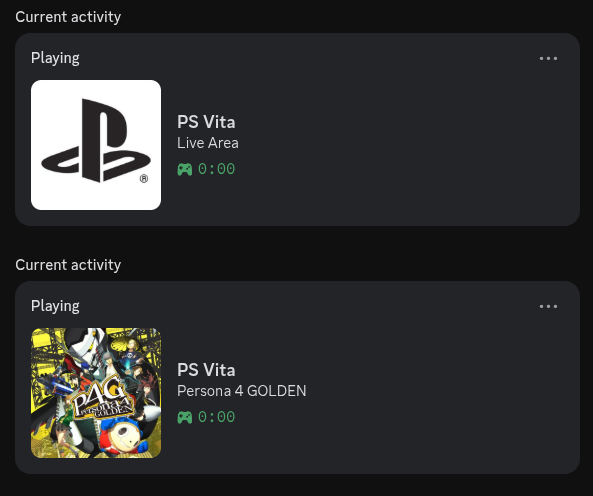
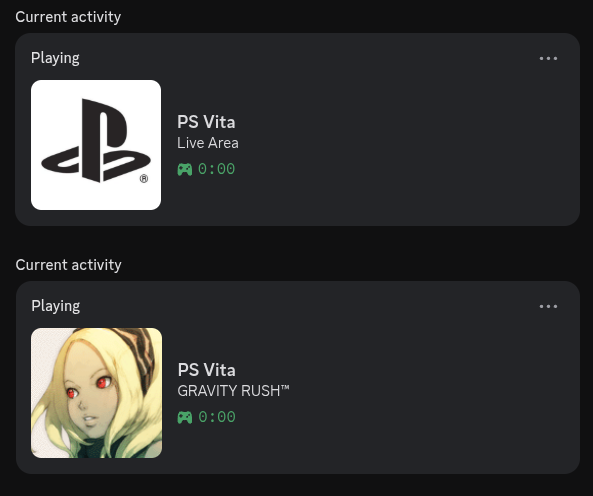
Update image and github workflow

Changed region(s): [[0.0304, 0.6048, 0.2732, 0.9375], [0.3035, 0.7258, 0.516, 0.8468], [0.0304, 0.5141, 0.2125, 0.5444]]

diff --git a/README.md b/README.md
@@ -39,11 +39,13 @@ yay -S vita-presence-rs-bin
 
 2. Create an application on the [Discord Developer Portal](https://discord.com/developers/home) name it something like PS Vita, this will show on your profile as "**Playing *PS Vita*** and copy the Application ID
 
-3. Configure the app — run it once to generate an example config at:
+3. Configure the app at:
    - **Linux:** `~/.config/vita-presence-rs/config.json`
    - **Mac:** `~/Library/Application Support/vita-presence-rs/config.json`
    - **Windows:** `%APPDATA%\vita-presence-rs\config.json`
-
+    
+    You can run it once to generate a default config
+    
 ```json
 {
     "ip": "YOUR_VITA_IP",
